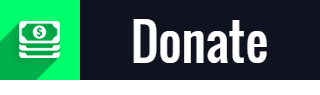
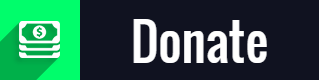
contact, gradients

diff --git a/main/static/css/main.css b/main/static/css/main.css
@@ -13,6 +13,19 @@ html {
   height: 100%;
 }
 
+.podkreslenie {
+  text-align: center;
+  font-size: 15px;
+  height: 5vh;
+  font-family: Montserrat;
+  width: 100%;
+  padding-top: 10px;
+  align-content: center;
+  background: linear-gradient(217deg, rgba(219, 118, 2, 0.801), rgba(219, 118, 2, 0) 70.71%),
+  linear-gradient(127deg, rgba(241, 108, 31, 0.8), rgba(255, 94, 0 ,0) 70.71%),
+  linear-gradient(336deg, rgba(195, 175, 60, 0.8), rgba(195, 175, 60, 0) 70.71%),
+  linear-gradient(36deg, rgba(170, 149, 31, 0.8), rgba(170, 149, 31, 0) 70.71%);
+}
 .mapunia{
   margin-top: 5vh;
   margin-bottom: 5vh;
@@ -26,16 +39,7 @@ html {
   height: 100vh; 
 }
 
-.podkreslenie {
-  text-align: center;
-  font-size: 15px;
-  height: 40px;
-  font-family: Montserrat;
-  width: 100%;
-  padding-top: 10px;
-  align-content: center;
-  background-color: rgba(255, 153, 0, 0.95);
-}
+
 .bg {
   /* The image used */
   background-image: url("1.jpg");
@@ -116,6 +120,37 @@ h5 {
 .jumpers img {
   width: 100%;
   height: auto;
+}
+
+.donateFounds{
+  background-image: linear-gradient( cyan, rgb(118, 233, 171));
+margin-bottom: 10vh;
+  height: 60vh;
+  align-content: center;
+  text-align: center;
+}
+
+.donateBtn{
+  align-self: center;
+  margin-top: 25vh;
+  width: auto;
+  height: auto;
+  display: inline-block;
+  background-image: url(../img/donate.png);
+  box-sizing: border-box;
+  height: auto;
+  box-shadow: 10px 14px 204px -4px rgb(251, 251, 251);
+  border-radius: 30px; 
+}
+.donateBtn:hover{
+  align-self: center;
+  margin-top: 25vh;
+  display: inline-block;
+  border-radius: 40px; 
+  background-image: url(../img/donate.png);
+  box-sizing: border-box;
+  height: auto;
+  box-shadow: 10px 14px 304px -4px rgb(37, 39, 39);
 }
 
 .tigertrons img {
@@ -376,7 +411,11 @@ h5 {
 .foot {
   height: 90px;
   width: 100%;
-  background-color: rgba(255, 153, 0, 0.8);
+  /* background-color: rgba(255, 153, 0, 0.8); */
+  background: linear-gradient(217deg, rgba(255, 179, 0, 0.8), rgba(255, 179, 0, 0) 70.71%),
+  linear-gradient(127deg, rgba(241, 108, 31, 0.8), rgba(255, 94, 0 ,0) 70.71%),
+  linear-gradient(336deg, rgba(255, 217, 0, 0.8), rgba(255, 217,0, 0) 70.71%),
+  linear-gradient(36deg, rgba(255, 217, 0, 0.8), rgba(255, 217,0, 0) 70.71%);
 }
 
 .foot ul {

diff --git a/main/static/ContactFrom/contact.html b/main/static/ContactFrom/contact.html
@@ -247,7 +247,67 @@
     </div>
 
     <div id="dropDownSelect1"></div>
+    <div class="donateFounds">
+      <img src="../img/donate.png" class="donateBtn"/></img>
+    </div>
+    <footer>
+      <div class="foot">
+        <ul>
+          <li>
+            <a href="https://www.facebook.com/Tigertrons222/">
+              <span></span>
+              <span></span>
+              <span></span>
+              <span></span>
+              <i class="fa fa-facebook"></i>
+            </a>
+          </li>
 
+          <li>
+            <a href="#">
+              <span></span>
+              <span></span>
+              <span></span>
+              <span></span>
+              <i class="fa fa-twitter"></i>
+            </a>
+          </li>
+
+          <li>
+            <a href="#">
+              <span></span>
+              <span></span>
+              <span></span>
+              <span></span>
+              <i class="fa fa-youtube"></i>
+            </a>
+          </li>
+
+          <li>
+            <a href="#">
+              <span></span>
+              <span></span>
+              <span></span>
+              <span></span>
+              <i class="fa fa-instagram"></i>
+            </a>
+          </li>
+
+          <li>
+            <a href="#">
+              <span></span>
+              <span></span>
+              <span></span>
+              <span></span>
+              <i class="fa fa-envelope"></i>
+            </a>
+          </li>
+        </ul>
+      </div>
+    </footer>
+    <div class="podkreslenie">
+      © 2019 Copyright: Tigertrons Team #222 Authors: Andrzej Świętek & Daniel Krzyżak
+    </div>
     <!--===============================================================================================-->
     <script src="vendor/jquery/jquery-3.2.1.min.js"></script>
     <!--===============================================================================================-->

diff --git a/main/static/ContactFrom/css/main.css b/main/static/ContactFrom/css/main.css
@@ -42,7 +42,7 @@ body, html {
 /*---------------------------------------------*/
 a {
 	font-family: Poppins-Regular;
-	font-size: 14px;
+	font-size: 1em;
 	line-height: 1.7;
 	color: #666666;
 	margin: 0px;
